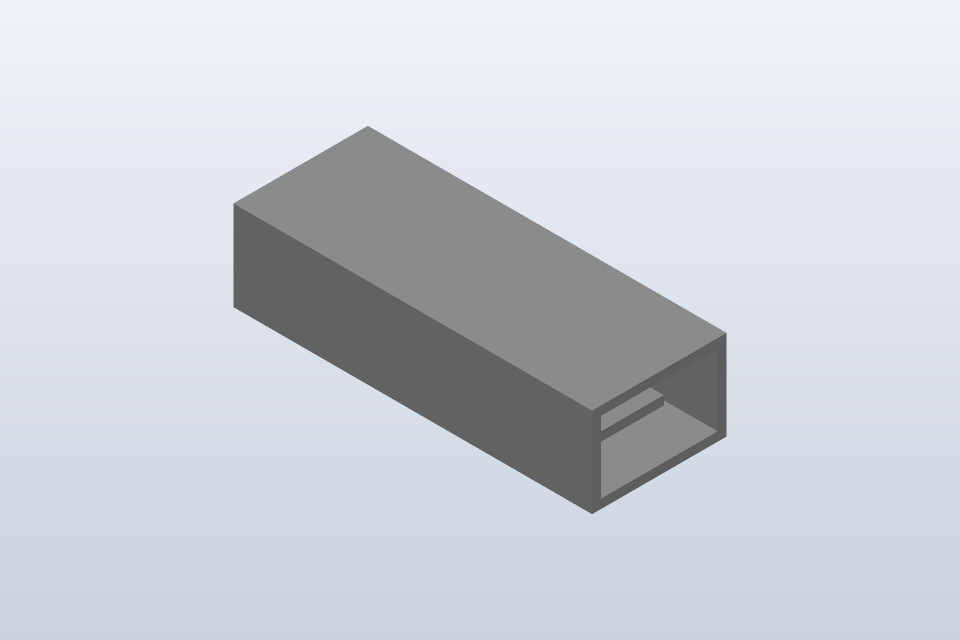
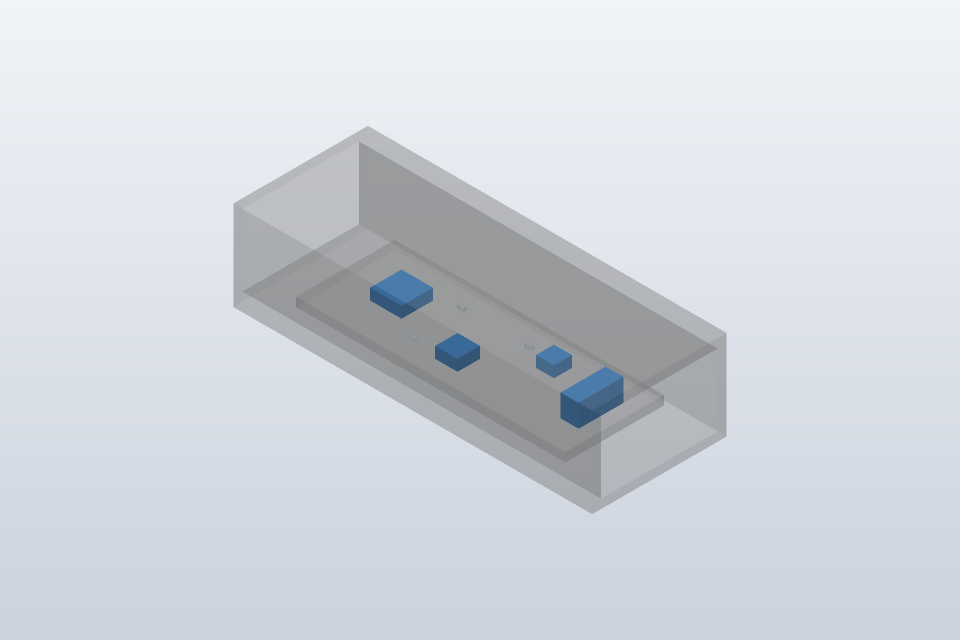
Draws Multiphysics verdicts in colours every eye tells apart
With a colour vision mode on, colour by verdict draws pass, warn and fail
in blue, yellow and vermilion instead of the theme's status colours, which
fell to CIEDE2000 1.5 to 7 between pass, fail and a dimmed part on shaded
faces for a red-green loss. The batch report, read by anyone, always uses
them, says each verdict in words beside its temperature, and draws parts
without a limit see-through so an enclosure no longer hides the parts in it.
A test holds the colours 10 or more apart for normal vision and every loss
at each shading.

Changed region(s): [[0.2188, 0.1875, 0.7812, 0.8125]]

diff --git a/docs/multiphysics-site/docs/examples/report/report.html b/docs/multiphysics-site/docs/examples/report/report.html
@@ -1,2 +1,2 @@
 <!DOCTYPE html>
-<html lang="en"><head><meta charset="utf-8"><title>Board in duct — batch report</title><style>body{font-family:sans-serif;margin:2em}table{border-collapse:collapse;margin:1em 0}th,td{border:1px solid #999;padding:.3em .6em;text-align:right}th:first-child,td:first-child{text-align:left}.pass{background:#d7f0dc}.warn{background:#fbecc4}.fail{background:#f6d0cc}.stale{color:#8a5a00}</style></head><body><h1>Board in duct — batch report</h1><h2>Runs</h2><table><tr><th>Run</th><th>Power (W)</th><th>Hottest part</th><th>Max (°C)</th><th>Least margin</th><th>Margin (K)</th><th>Pass</th><th>Warn</th><th>Fail</th><th>No result</th></tr><tr><td>mp-1-1 <span class="stale">(older setup)</span></td><td>4.20</td><td>U2</td><td>77.1</td><td>Q1</td><td>2.9</td><td>4</td><td>0</td><td>0</td><td>0</td></tr><tr><td>mp-1-2</td><td>4.20</td><td>U2</td><td>86.7</td><td>Q1</td><td>-7.0</td><td>1</td><td>1</td><td>2</td><td>0</td></tr></table><h2>Highest temperature per part (°C)</h2><table><tr><th>Part</th><th>mp-1-1</th><th>mp-1-2</th></tr><tr><td>Duct</td><td class="no_limit">46.0</td><td class="no_limit">56.0</td></tr><tr><td>PCB1</td><td class="no_limit">73.6</td><td class="no_limit">83.2</td></tr><tr><td>U1</td><td class="pass">74.6</td><td class="warn">83.0</td></tr><tr><td>U2</td><td class="pass">77.1</td><td class="fail">86.7</td></tr><tr><td>Q1</td><td class="pass">72.1</td><td class="fail">82.0</td></tr><tr><td>J1</td><td class="pass">53.3</td><td class="pass">62.5</td></tr></table><h2>Parts by verdict</h2><p>Green: pass, amber: warn, red: fail, grey: no result.</p><figure><img src="run-1.png" alt="mp-1-1" width="640"><figcaption>mp-1-1</figcaption></figure><figure><img src="run-2.png" alt="mp-1-2" width="640"><figcaption>mp-1-2</figcaption></figure></body></html>
+<html lang="en"><head><meta charset="utf-8"><title>Board in duct — batch report</title><style>body{font-family:sans-serif;margin:2em}table{border-collapse:collapse;margin:1em 0}th,td{border:1px solid #999;padding:.3em .6em;text-align:right}th:first-child,td:first-child{text-align:left}.pass{background:#d6e6f7}.warn{background:#fbf6c8}.fail{background:#f8dcc8}.stale{color:#8a5a00}.v{font-size:.85em}</style></head><body><h1>Board in duct — batch report</h1><h2>Runs</h2><table><tr><th>Run</th><th>Power (W)</th><th>Hottest part</th><th>Max (°C)</th><th>Least margin</th><th>Margin (K)</th><th>Pass</th><th>Warn</th><th>Fail</th><th>No result</th></tr><tr><td>mp-1-1 <span class="stale">(older setup)</span></td><td>4.20</td><td>U2</td><td>77.1</td><td>Q1</td><td>2.9</td><td>4</td><td>0</td><td>0</td><td>0</td></tr><tr><td>mp-1-2</td><td>4.20</td><td>U2</td><td>86.7</td><td>Q1</td><td>-7.0</td><td>1</td><td>1</td><td>2</td><td>0</td></tr></table><h2>Highest temperature per part (°C)</h2><table><tr><th>Part</th><th>mp-1-1</th><th>mp-1-2</th></tr><tr><td>Duct</td><td class="no_limit">46.0</td><td class="no_limit">56.0</td></tr><tr><td>PCB1</td><td class="no_limit">73.6</td><td class="no_limit">83.2</td></tr><tr><td>U1</td><td class="pass">74.6 <span class="v">✓ pass</span></td><td class="warn">83.0 <span class="v">! warn</span></td></tr><tr><td>U2</td><td class="pass">77.1 <span class="v">✓ pass</span></td><td class="fail">86.7 <span class="v">✗ fail</span></td></tr><tr><td>Q1</td><td class="pass">72.1 <span class="v">✓ pass</span></td><td class="fail">82.0 <span class="v">✗ fail</span></td></tr><tr><td>J1</td><td class="pass">53.3 <span class="v">✓ pass</span></td><td class="pass">62.5 <span class="v">✓ pass</span></td></tr></table><h2>Parts by verdict</h2><p>Blue: pass, yellow: warn, vermilion: fail; see-through grey: no limit or no result.</p><figure><img src="run-1.png" alt="mp-1-1" width="640"><figcaption>mp-1-1</figcaption></figure><figure><img src="run-2.png" alt="mp-1-2" width="640"><figcaption>mp-1-2</figcaption></figure></body></html>

diff --git a/crates/multiphysics/src/report.rs b/crates/multiphysics/src/report.rs
@@ -15,14 +15,27 @@ use crate::{Error, Result, Study};
 /// Most runs one report reads.
 pub const MAX_REPORT_RUNS: usize = 64;
 
-/// The colours a report draws verdicts in, in its pictures and its page: green, amber, red, and
-/// grey for a part the run reports nothing on.
+/// The colours a report draws verdicts in, in its pictures: blue, yellow and vermilion, which
+/// every eye tells apart (anyone may read a report), and grey, drawn see-through, for a part
+/// without a limit or a result.
 pub fn verdict_rgb(status: Option<ComponentStatus>) -> [u8; 3] {
+    let [pass, warn, fail] = solidcraft_color::VERDICTS_FOR_EVERY_EYE;
     match status {
-        Some(ComponentStatus::Pass) => [67, 160, 71],
-        Some(ComponentStatus::Warn) => [230, 160, 40],
-        Some(ComponentStatus::Fail) => [211, 67, 54],
+        Some(ComponentStatus::Pass) => pass,
+        Some(ComponentStatus::Warn) => warn,
+        Some(ComponentStatus::Fail) => fail,
         Some(ComponentStatus::NoLimit) | None => [150, 150, 150],
+    }
+}
+
+/// A verdict in words and a mark after a cell's number, so the page does not lean on colour
+/// alone; nothing for a part without a limit.
+fn verdict_mark(status: ComponentStatus) -> &'static str {
+    match status {
+        ComponentStatus::Pass => " <span class=\"v\">✓ pass</span>",
+        ComponentStatus::Warn => " <span class=\"v\">! warn</span>",
+        ComponentStatus::Fail => " <span class=\"v\">✗ fail</span>",
+        ComponentStatus::NoLimit => "",
     }
 }
 
@@ -157,7 +170,7 @@ pub fn to_html(report: &BatchReport, pictures: &[Option<String>]) -> String {
     out.push_str(
         "<style>body{font-family:sans-serif;margin:2em}table{border-collapse:collapse;margin:1em 0}\
          th,td{border:1px solid #999;padding:.3em .6em;text-align:right}th:first-child,td:first-child{text-align:left}\
-         .pass{background:#d7f0dc}.warn{background:#fbecc4}.fail{background:#f6d0cc}.stale{color:#8a5a00}</style></head><body>",
+         .pass{background:#d6e6f7}.warn{background:#fbf6c8}.fail{background:#f8dcc8}.stale{color:#8a5a00}.v{font-size:.85em}</style></head><body>",
     );
     out.push_str(&format!("<h1>{}</h1>", escape(&title)));
     out.push_str("<h2>Runs</h2><table><tr><th>Run</th><th>Power (W)</th><th>Hottest part</th><th>Max (°C)</th><th>Least margin</th><th>Margin (K)</th><th>Pass</th><th>Warn</th><th>Fail</th><th>No result</th></tr>");
@@ -188,7 +201,9 @@ pub fn to_html(report: &BatchReport, pictures: &[Option<String>]) -> String {
             let row = table.rows.iter().find(|r| r.body == part);
             let result = row.and_then(|r| r.result.as_ref().map(|x| (celsius(x.max_temperature_k), r.status)));
             match result {
-                Some((max, status)) => out.push_str(&format!("<td class=\"{}\">{}</td>", status_name(status), fixed(Some(max), 1))),
+                Some((max, status)) => {
+                    out.push_str(&format!("<td class=\"{}\">{}{}</td>", status_name(status), fixed(Some(max), 1), verdict_mark(status)))
+                }
                 None => out.push_str("<td>–</td>"),
             }
         }
@@ -196,7 +211,7 @@ pub fn to_html(report: &BatchReport, pictures: &[Option<String>]) -> String {
     }
     out.push_str("</table>");
     if pictures.iter().any(Option::is_some) {
-        out.push_str("<h2>Parts by verdict</h2><p>Green: pass, amber: warn, red: fail, grey: no result.</p>");
+        out.push_str("<h2>Parts by verdict</h2><p>Blue: pass, yellow: warn, vermilion: fail; see-through grey: no limit or no result.</p>");
         for (s, picture) in report.runs.iter().zip(pictures) {
             if let Some(file) = picture {
                 out.push_str(&format!(
@@ -275,7 +290,7 @@ mod tests {
         let html = to_html(&report, &[]);
         assert!(html.contains("<title>Board &lt;A&amp;B&gt; — batch report</title>"), "escaped: {html}");
         assert!(!html.contains("<A&B>") && !html.contains("<script"));
-        assert!(html.contains("<td class=\"fail\">71.9</td>"), "{html}");
+        assert!(html.contains("<td class=\"fail\">71.9 <span class=\"v\">✗ fail</span></td>"), "{html}");
         assert!(!html.contains("<img"), "no pictures");
         let pictured = to_html(&report, &[Some("run-1.png".into()), None]);
         assert!(pictured.contains("<img src=\"run-1.png\" alt=\"slow fan\""), "{pictured}");

diff --git a/crates/ui-egui/src/colour_vision_tests.rs b/crates/ui-egui/src/colour_vision_tests.rs
@@ -1365,3 +1365,38 @@ fn the_curvature_scale_lightens_steadily_for_every_eye() {
         }
     }
 }
+
+/// Multiphysics verdicts colour whole parts side by side, shaded (#778): with a mode on, and in a
+/// batch report anyone may read, they are drawn in `VERDICTS_FOR_EVERY_EYE`, which must stay
+/// apart from each other and from grey (no result) or a dimmed body (not in the study) for
+/// normal vision and every loss, at each shading a face gets.
+#[test]
+fn multiphysics_verdicts_stay_apart_for_every_eye_on_shaded_parts() {
+    let shade = |c: Rgb8, x: f64| c.map(|v| (f64::from(v) * x).round().min(255.0) as u8);
+    let mut grounds: Vec<(&str, Rgb8)> = vec![("no result", [150, 150, 150])];
+    for (name, dark) in [("dim light body", false), ("dim dark body", true)] {
+        let [r, g, b, _] = Tokens::themed(dark, ColorVision::Off).body.to_array();
+        let dim = |c: u8| (f32::from(c) * 0.55) as u8;
+        grounds.push((name, [dim(r), dim(g), dim(b)]));
+    }
+    let verdicts = solidcraft_color::VERDICTS_FOR_EVERY_EYE;
+    assert_eq!(
+        solidcraft_engine::multiphysics::report::verdict_rgb(Some(solidcraft_engine::multiphysics::results::ComponentStatus::Fail)),
+        verdicts[2]
+    );
+    let mut failures = Vec::new();
+    for mode in std::iter::once(ColorVision::Off).chain(MODES) {
+        for x in LIT {
+            for i in 0..3 {
+                let others = verdicts.iter().enumerate().skip(i + 1).map(|(j, c)| (["pass", "warn", "fail"][j], *c));
+                for (name, other) in others.chain(grounds.iter().copied()) {
+                    let w = worst(mode, shade(verdicts[i], x), shade(other, x));
+                    if w < FLOOR {
+                        failures.push(format!("{mode:?} lit {x}: {} vs {name}: {w:.1}", ["pass", "warn", "fail"][i]));
+                    }
+                }
+            }
+        }
+    }
+    assert!(failures.is_empty(), "{}", failures.join("\n"));
+}

diff --git a/crates/ui-egui/src/viewport.rs b/crates/ui-egui/src/viewport.rs
@@ -1205,15 +1205,25 @@ pub(crate) fn see_through(app: &SolveApp, body: &solidcraft_engine::doc::ModelBo
     frame_ghosted(app, body) || app.session.ghosted_bodies.contains(&body.name)
 }
 
-/// A colour-by swatch drawn from the theme: its status colours, a muted body colour, a place on
+/// A colour-by swatch drawn from the theme: its status colours (with a colour vision mode on, the
+/// verdicts every eye tells apart), a muted body colour, a place on
 /// the Viridis map, or one of the categorical colours. The legend uses the same colours.
 pub fn swatch_colour(swatch: solidcraft_engine::multiphysics::setup_check::Swatch) -> egui::Color32 {
     use solidcraft_engine::multiphysics::setup_check::Swatch;
     let t = Tokens::get();
+    // The theme's status colours are for text and badges, not shaded parts side by side: with a
+    // colour vision mode on, verdicts take the colours every eye tells apart.
+    let verdict = |i: usize, theme: egui::Color32| match solidcraft_theme::vision() {
+        solidcraft_theme::ColorVision::Off => theme,
+        _ => {
+            let [r, g, b] = solidcraft_color::VERDICTS_FOR_EVERY_EYE[i];
+            egui::Color32::from_rgb(r, g, b)
+        }
+    };
     match swatch {
-        Swatch::Good => t.form_success,
-        Swatch::Warn => t.warning,
-        Swatch::Bad => t.form_error,
+        Swatch::Good => verdict(0, t.form_success),
+        Swatch::Warn => verdict(1, t.warning),
+        Swatch::Bad => verdict(2, t.form_error),
         Swatch::Muted => {
             let [r, g, b, _] = t.body.to_array();
             let dim = |c: u8| (f32::from(c) * 0.55) as u8;

diff --git a/crates/engine/src/cmd/multiphysics.rs b/crates/engine/src/cmd/multiphysics.rs
@@ -468,10 +468,13 @@ fn verdict_picture(
             return None;
         }
         bounds = bounds.union(&mesh.bounds());
+        // A part with a verdict is solid in its colour; one without (no limit, no result, not
+        // in the study) is see-through, so an enclosure does not hide the parts inside it.
         let (color, opacity) = match verdicts.get(&body.name) {
             Some(status) => {
                 let [r, g, b] = solidcraft_multiphysics::report::verdict_rgb(*status);
-                (Rgb(r, g, b), 1.0)
+                let judged = matches!(status, Some(s) if *s != solidcraft_multiphysics::results::ComponentStatus::NoLimit);
+                (Rgb(r, g, b), if judged { 1.0 } else { 0.25 })
             }
             None => (crate::view::colors::BODY, 0.25),
         };

diff --git a/crates/color/src/analysis.rs b/crates/color/src/analysis.rs
@@ -15,6 +15,12 @@ pub struct AnalysisColors {
     pub hatch: bool,
 }
 
+/// Verdicts (pass, warn, fail) that every eye tells apart: blue, yellow and vermilion, apart
+/// from each other and from grey or a dimmed body by CIEDE2000 10 or more for normal vision and
+/// for a protan, deutan or tritan loss, at any shading a face gets (`colour_vision_tests`). For a
+/// colour vision mode, and for pictures read by anyone, such as a batch report.
+pub const VERDICTS_FOR_EVERY_EYE: [[u8; 3]; 3] = [[25, 118, 210], [240, 228, 66], [213, 94, 0]];
+
 impl AnalysisColors {
     /// The light theme's colours (no colour vision mode): what headless pictures use.
     pub const DEFAULT: AnalysisColors = AnalysisColors {

diff --git a/crates/color/src/lib.rs b/crates/color/src/lib.rs
@@ -6,4 +6,4 @@ mod analysis;
 pub mod hex;
 pub mod srgb;
 
-pub use analysis::AnalysisColors;
+pub use analysis::{AnalysisColors, VERDICTS_FOR_EVERY_EYE};

diff --git a/docs/multiphysics-site/docs/tutorials/comparing-runs.md b/docs/multiphysics-site/docs/tutorials/comparing-runs.md
@@ -24,6 +24,11 @@ every run that kept a thermal report, oldest first. Type a new folder's name and
 | `report.csv` | Every part's numbers per run: power, limit, highest and mean temperature, margin, verdict |
 | `run-1.png`, `run-2.png`, … | Each run's parts in their verdict colours, iso view (when SolidCraft can draw pictures, which it always can in the app) |
 
+Anyone may read a report, whatever their colour vision, so its pictures draw verdicts in blue
+(pass), yellow (warn) and vermilion (fail), which every eye tells apart, and a part without a limit
+or a result see-through grey, so an enclosure does not hide what is inside it. In the page each temperature also says its verdict in words, so no cell leans
+on colour alone.
+
 The example's report: [report.html](../examples/report/report.html),
 [report.csv](../examples/report/report.csv).
 

diff --git a/docs/multiphysics-site/docs/tutorials/reading-results.md b/docs/multiphysics-site/docs/tutorials/reading-results.md
@@ -40,6 +40,12 @@ Click a legend entry to see only its parts: they stay solid, everything else is 
 Click it again to bring every part back. The other modes colour by **Material** (unassigned
 parts stand out), **Power** (on a colour map) and **Tag**.
 
+!!! note "Colour vision"
+    With a **Colour vision** mode on (Preferences, Appearance), verdicts are drawn blue for pass,
+    yellow for warn and vermilion for fail: colours that stay apart for a red-green or a
+    blue-yellow loss on every shading a part's faces get. Without a mode they keep the theme's
+    green, amber and red. The legend names each verdict, so its words always say which is which.
+
 Colours are view state: they are not saved and are not an undo step, and leaving the
 workspace draws the parts in their own looks again.
 
